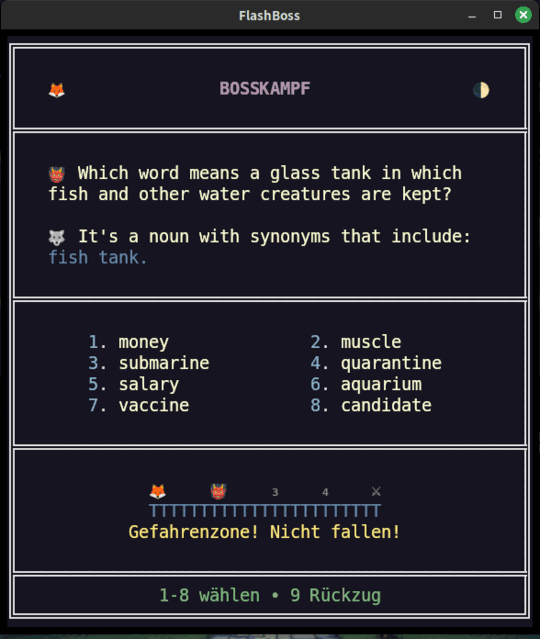
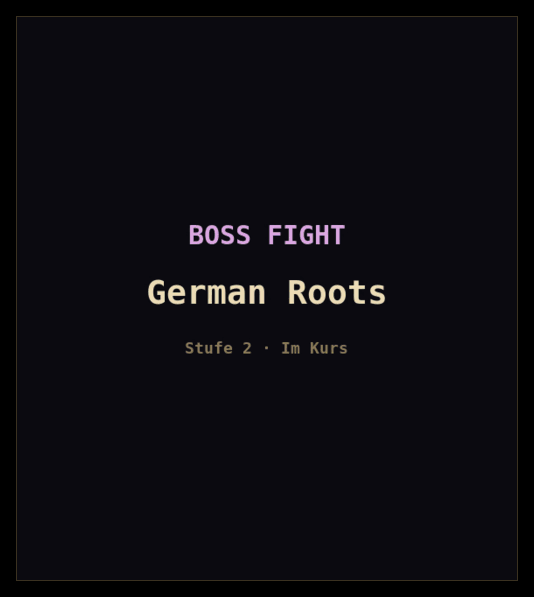
The immersion pages get the ladder itself: German Roots, Norman Roots, Greek Roots
Six GIFs, one per interface, in the format the home pages already use: our own
clapboard, the fight, the screen it ends on, next clapboard; the terminal's
inside only, bordered, floating in black. They replace the single Latin Roots
fight that was still in the superseded window-chrome format with no setback.

The three fights walk the ladder rather than repeating one step: German Roots is
step 2 and Norman Roots step 3, the two layers English is stitched from, both
inside the course; Greek Roots is step 6, past the ceiling. The clapboard
straplines say exactly that, in each locale's own words for Step, Inside and
Beyond, taken from that locale's immersion module rather than invented again.

These are immersion packs, so the cards are English under every interface and
only the chrome changes. That is the page's whole argument, now visible instead
of asserted: Japanese chrome around an English question and English options.

162 captures checked before assembly. Every set ends on a blue-bordered cluster
victory, no fight frame carries one, and every frame's content ends in the same
row band -- so no Sanctum, no scroll, no broken border. One miss in each of the
eighteen fights.

The plan doc's DO_NOT_UPLOAD note is corrected rather than cleared. An earlier
version of it asserted the depots were live on the strength of href values in
this repo's own HTML, which knight-e6 rightly refused. The depots ARE live, and
[…]

diff --git a/immersion.ru.html b/immersion.ru.html
@@ -480,7 +480,7 @@ footer .footer-links .div{opacity:.4;}
           <p><a href="https://flashboss-demo.pages.dev/english/" target="_blank" rel="noopener">Сразитесь сами &rarr;</a></p>
         </div>
         <a class="bf-box" href="https://flashboss-demo.pages.dev/english/" target="_blank" rel="noopener">
-          <img src="bossfight-immersion-poster.ru.png" data-gif="bossfight-immersion.ru.gif" alt="Бой с боссом из Latin Roots в настоящей игре: интерфейс русский, текст карточки английский. Босс спрашивает, какое слово означает стеклянный резервуар для рыб, ответ aquarium попадает в цель, и кластер побеждён — его восемь слов уходят из оборота.">
+          <img src="bossfight-immersion-poster.ru.png" data-gif="bossfight-immersion.ru.gif" alt="Три боя с боссом из серии Roots в настоящей игре, каждый со своей заставкой: German Roots, Norman Roots и Greek Roots. Интерфейс русский, карточки на каждой ступени английские. Каждый бой доходит до позиции смертельного удара, теряет её из-за неверного ответа и отбрасывается на два шага назад, снова поднимается и побеждает.">
           <span class="bf-hint">попробовать демо</span>
         </a>
       </div>

diff --git a/immersion.ja.html b/immersion.ja.html
@@ -480,7 +480,7 @@ footer .footer-links .div{opacity:.4;}
           <p><a href="https://flashboss-demo.pages.dev/english/" target="_blank" rel="noopener">自分で戦ってみる &rarr;</a></p>
         </div>
         <a class="bf-box" href="https://flashboss-demo.pages.dev/english/" target="_blank" rel="noopener">
-          <img src="bossfight-immersion-poster.ja.png" data-gif="bossfight-immersion.ja.gif" alt="実際のゲームでのLatin Rootsのボス戦。インターフェースは日本語、カードの文面は英語です。ボスが魚を飼うガラスの水槽を指す語を問い、答えのaquariumが決まって、クラスターを攻略 — その8語が出題の回転から外れます。">
+          <img src="bossfight-immersion-poster.ja.png" data-gif="bossfight-immersion.ja.gif" alt="実際のゲームでのRootsシリーズのボス戦が3つ、それぞれ専用のタイトルカードで始まります：German Roots、Norman Roots、Greek Roots。インターフェースは日本語、カードはどの段階でも英語です。どの戦いも必殺の間合いに到達し、誤答で失って2歩押し戻され、もう一度上がって勝ちます。">
           <span class="bf-hint">デモを試す</span>
         </a>
       </div>

diff --git a/immersion.es.html b/immersion.es.html
@@ -480,7 +480,7 @@ footer .footer-links .div{opacity:.4;}
           <p><a href="https://flashboss-demo.pages.dev/english/" target="_blank" rel="noopener">Enfréntate a uno &rarr;</a></p>
         </div>
         <a class="bf-box" href="https://flashboss-demo.pages.dev/english/" target="_blank" rel="noopener">
-          <img src="bossfight-immersion-poster.es.png" data-gif="bossfight-immersion.es.gif" alt="Un boss fight de Latin Roots en el juego real: la interfaz está en español y el texto de la tarjeta en inglés. El jefe pregunta qué palabra nombra un tanque de vidrio para peces, la respuesta aquarium acierta, y el cluster queda conquistado — sus ocho palabras salen de circulación.">
+          <img src="bossfight-immersion-poster.es.png" data-gif="bossfight-immersion.es.gif" alt="Tres boss fights de la serie Roots en el juego real, cada uno tras su propia tarjeta de título: German Roots, Norman Roots y Greek Roots. La interfaz está en español y las tarjetas están en inglés en todos los pasos. Cada combate llega a la posición de golpe mortal, la pierde por una respuesta equivocada y retrocede dos pasos, vuelve a subir y gana.">
           <span class="bf-hint">probar demo</span>
         </a>
       </div>

diff --git a/immersion.de.html b/immersion.de.html
@@ -480,7 +480,7 @@ footer .footer-links .div{opacity:.4;}
           <p><a href="https://flashboss-demo.pages.dev/english/" target="_blank" rel="noopener">Kämpfe selbst einen &rarr;</a></p>
         </div>
         <a class="bf-box" href="https://flashboss-demo.pages.dev/english/" target="_blank" rel="noopener">
-          <img src="bossfight-immersion-poster.de.png" data-gif="bossfight-immersion.de.gif" alt="Ein Latin-Roots-Bosskampf im echten Spiel: Die Oberfläche ist deutsch, die Karte englisch. Der Boss fragt, welches Wort ein Glasbecken für Fische bezeichnet, die Antwort aquarium sitzt, und das Cluster ist bezwungen — seine acht Wörter verlassen den Umlauf.">
+          <img src="bossfight-immersion-poster.de.png" data-gif="bossfight-immersion.de.gif" alt="Drei Bosskämpfe aus der Roots-Reihe im echten Spiel, jeder hinter einer eigenen Titelkarte: German Roots, Norman Roots und Greek Roots. Die Oberfläche ist deutsch, die Karten sind auf jeder Stufe englisch. Jeder Kampf erreicht die Todesstoß-Position, verliert sie durch eine falsche Antwort und wird zwei Schritte zurückgeworfen, steigt wieder auf und gewinnt.">
           <span class="bf-hint">Demo testen</span>
         </a>
       </div>

diff --git a/immersion.zh.html b/immersion.zh.html
@@ -480,7 +480,7 @@ footer .footer-links .div{opacity:.4;}
           <p><a href="https://flashboss-demo.pages.dev/english/" target="_blank" rel="noopener">亲自打一场 &rarr;</a></p>
         </div>
         <a class="bf-box" href="https://flashboss-demo.pages.dev/english/" target="_blank" rel="noopener">
-          <img src="bossfight-immersion-poster.zh.png" data-gif="bossfight-immersion.zh.gif" alt="真实游戏中的一场 Latin Roots Boss 战：界面是简体中文，卡面文字是英语。头目问哪个词指养鱼的玻璃缸，答案 aquarium 落位，这个词族被攻克——它的八个词离开轮转。">
+          <img src="bossfight-immersion-poster.zh.png" data-gif="bossfight-immersion.zh.gif" alt="真实游戏中 Roots 系列的三场头目战，各自由专属的标题卡引出：German Roots、Norman Roots 与 Greek Roots。界面是简体中文，卡面在每一步都是英语。每一场都走到绝杀位置，因答错而失去它、被击退两步，再爬回来取胜。">
           <span class="bf-hint">试玩演示</span>
         </a>
       </div>

diff --git a/immersion.html b/immersion.html
@@ -468,7 +468,7 @@ footer .footer-links .div{opacity:.4;}
           <p><a href="https://flashboss-demo.pages.dev/english/" target="_blank" rel="noopener">Fight one yourself &rarr;</a></p>
         </div>
         <a class="bf-box" href="https://flashboss-demo.pages.dev/english/" target="_blank" rel="noopener">
-          <img src="bossfight-immersion-poster.png" data-gif="bossfight-immersion.gif" alt="A Latin Roots boss fight in the real game: the boss asks which word means a glass tank for fish, the answer aquarium lands, and the cluster is conquered — its eight words leaving rotation.">
+          <img src="bossfight-immersion-poster.png" data-gif="bossfight-immersion.gif" alt="Three boss fights from the Roots series in the real game, each behind its own title card: German Roots, Norman Roots and Greek Roots. The cards are English at every step. Each fight reaches the killstroke position, loses it to a wrong answer and is pushed two steps back, then climbs again and wins.">
           <span class="bf-hint">try the demo</span>
         </a>
       </div>

diff --git a/scripts/bossfight/PLAN_real_game_capture.md b/scripts/bossfight/PLAN_real_game_capture.md
@@ -87,8 +87,26 @@ spanish (×3), german_p1, german_p2, the_guide_p2. Kits with no
 `norman_roots_screenshot_kit`.~~ **WRONG, corrected by flashboss-admin-75.** Both have
 their swaps one level down, in `sets/`, because each pack needs two —
 `GRR_A_cluster1_1_…` and `GRR_D_…`, likewise `NRR_`. Latin and Greek keep theirs at the
-kit root because they only have one. Use the `sets/` paths. **Their screenshots are
-marked DO_NOT_UPLOAD** pending the depots going live; ask Odiin before filming either.
+kit root because they only have one. Use the `sets/` paths.
+
+**Their screenshots are marked DO_NOT_UPLOAD** pending the depots going live.
+**The hold in `flashboss-admin` stands until knight-e6 or Odiin lifts it** — the
+marker names them, and a peer's reading is not their word.
+
+The depots themselves ARE live, and here is the evidence, because the first
+version of this note asserted it on much weaker grounds (href values in this
+repo's own HTML) and knight-e6 rightly asked what had actually been observed:
+
+    ~/.steam/debian-installation/steamapps/appmanifest_4134440.acf
+      InstalledDepots includes 4475060 (German Roots) and 4587720 (Norman Roots)
+    ~/.steam/debian-installation/steamapps/common/FlashBoss/flashcard_sets/
+      German_Roots  67 json files
+      Norman_Roots  68 json files   (content mtime 2026-09-20 13:20)
+
+That is depot content in a Steam install, not a store page. Both packs were
+filmed for the immersion-page GIFs on 2026-09-21; **filming is not uploading**,
+and the store-screenshot markers are a separate decision that is not this repo's
+to make.
 
 **Blocked — two swap files in one kit**, and `deck.swap_path()` refuses to choose:
 `the_guide_screenshot_kit` (cluster1_1 and cluster1_6), `english_screenshot_kit`.
